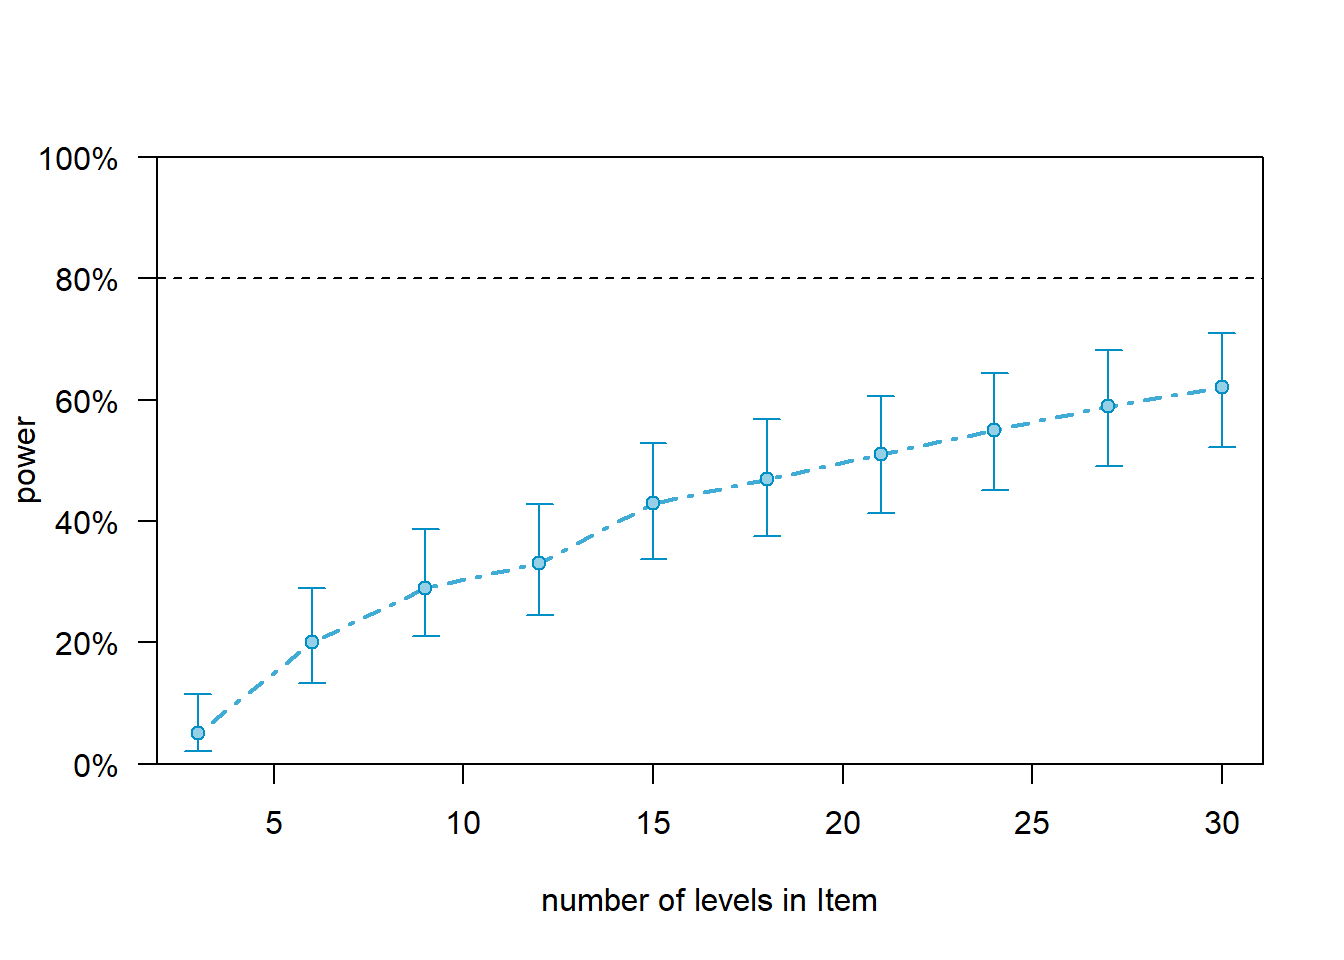
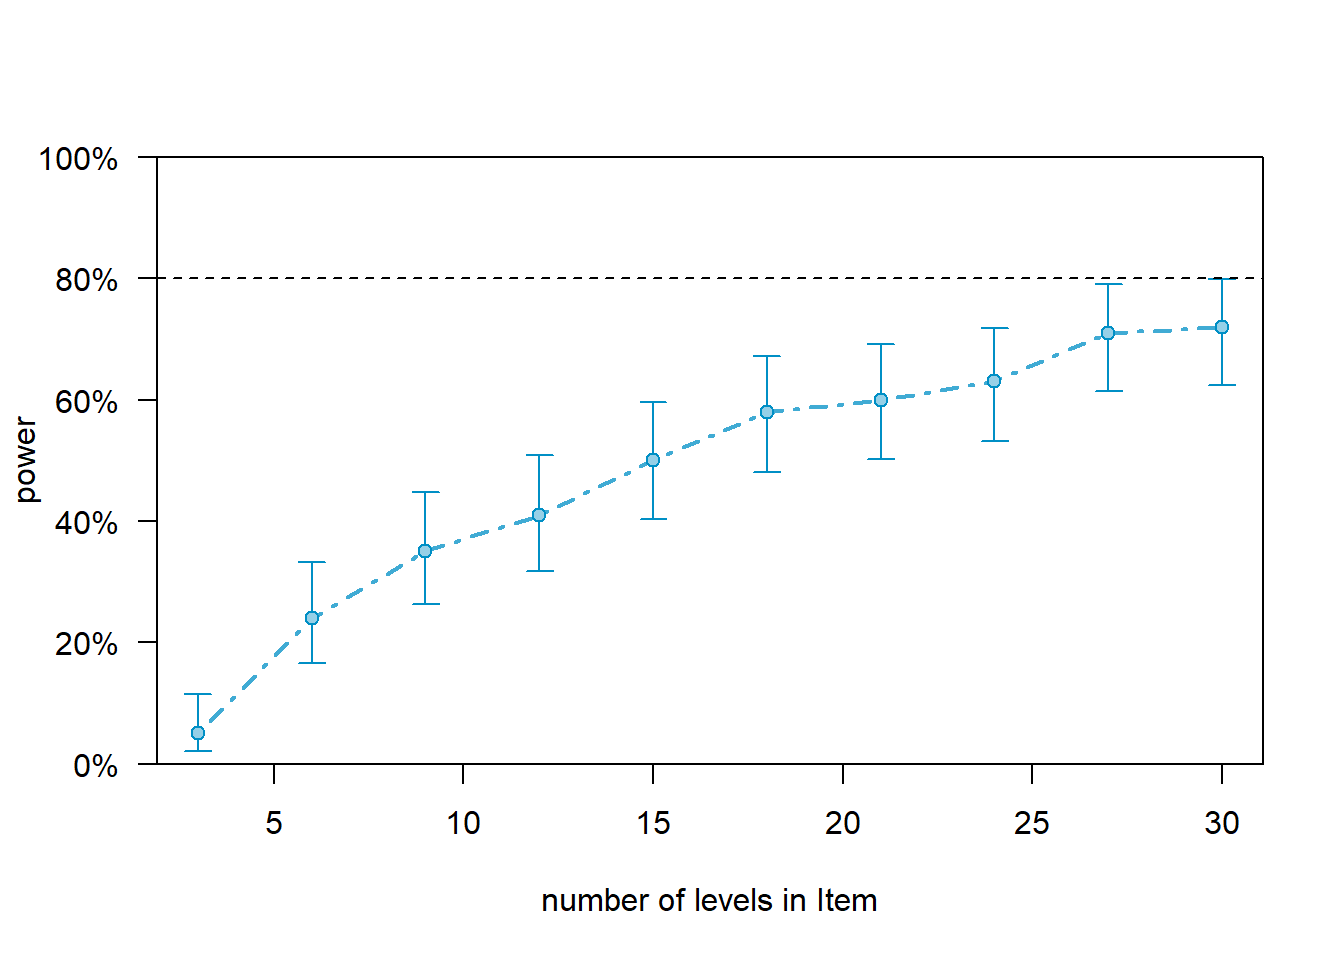
pwr update

diff --git a/pwr.html b/pwr.html
@@ -627,8 +627,8 @@ simdat &lt;- data.frame(
   dplyr::mutate_if(is.character, factor) %&gt;%
   dplyr::rename(AOI = 4)</code></pre>
 <p>The data looks like this.</p>
-<div id="htmlwidget-53c9c624b5613a192ece" style="width:100%;height:auto;" class="datatables html-widget"></div>
-<script type="application/json" data-for="htmlwidget-53c9c624b5613a192ece">{"x":{"filter":"none","caption":"<caption>Overview of the data set.<\/caption>","data":[["Sub1","Sub1","Sub1","Sub1","Sub1","Sub1","Sub1","Sub1","Sub1","Sub1","Sub2","Sub2","Sub2","Sub2","Sub2","Sub2","Sub2","Sub2","Sub2","Sub2","Sub3","Sub3","Sub3","Sub3","Sub3","Sub3","Sub3","Sub3","Sub3","Sub3","Sub4","Sub4","Sub4","Sub4","Sub4","Sub4","Sub4","Sub4","Sub4","Sub4","Sub5","Sub5","Sub5","Sub5","Sub5","Sub5","Sub5","Sub5","Sub5","Sub5","Sub6","Sub6","Sub6","Sub6","Sub6","Sub6","Sub6","Sub6","Sub6","Sub6","Sub7","Sub7","Sub7","Sub7","Sub7","Sub7","Sub7","Sub7","Sub7","Sub7","Sub8","Sub8","Sub8","Sub8","Sub8","Sub8","Sub8","Sub8","Sub8","Sub8","Sub9","Sub9","Sub9","Sub9","Sub9","Sub9","Sub9","Sub9","Sub9","Sub9","Sub10","Sub10","Sub10","Sub10","Sub10","Sub10","Sub10","Sub10","Sub10","Sub10","Sub1","Sub1","Sub1","Sub1","Sub1","Sub1","Sub1","Sub1","Sub1","Sub1","Sub2","Sub2","Sub2","Sub2","Sub2","Sub2","Sub2","Sub2","Sub2","Sub2","Sub3","Sub3","Sub3","Sub3","Sub3","Sub3","Sub3","Sub3","Sub3","Sub3","Sub4","Sub4","Sub4","Sub4","Sub4","Sub4","Sub4","Sub4","Sub4","Sub4","Sub5","Sub5","Sub5","Sub5","Sub5","Sub5","Sub5","Sub5","Sub5","Sub5","Sub6","Sub6","Sub6","Sub6","Sub6","Sub6","Sub6","Sub6","Sub6","Sub6","Sub7","Sub7","Sub7","Sub7","Sub7","Sub7","Sub7","Sub7","Sub7","Sub7","Sub8","Sub8","Sub8","Sub8","Sub8","Sub8","Sub8","Sub8","Sub8","Sub8","Sub9","Sub9","Sub9","Sub9","Sub9","Sub9","Sub9","Sub9","Sub9","Sub9","Sub10","Sub10","Sub10","Sub10","Sub10","Sub10","Sub10","Sub10","Sub10","Sub10"],["Control","Control","Control","Control","Control","Control","Control","Control","Control","Control","Control","Control","Control","Control","Control","Control","Control","Control","Control","Control","Control","Control","Control","Control","Control","Control","Control","Control","Control","Control","Control","Control","Control","Control","Control","Control","Control","Control","Control","Control","Control","Control","Control","Control","Control","Control","Control","Control","Control","Control","Control","Control","Control","Control","Control","Control","Control","Control","Control","Control","Control","Control","Control","Control","Control","Control","Control","Control","Control","Control","Control","Control","Control","Control","Control","Control","Control","Control","Control","Control","Control","Control","Control","Control","Control","Control","Control","Control","Control","Control","Control","Control","Control","Control","Control","Control","Control","Control","Control","Control","Test","Test","Test","Test","Test","Test","Test","Test","Test","Test","Test","Test","Test","Test","Test","Test","Test","Test","Test","Test","Test","Test","Test","Test","Test","Test","Test","Test","Test","Test","Test","Test","Test","Test","Test","Test","Test","Test","Test","Test","Test","Test","Test","Test","Test","Test","Test","Test","Test","Test","Test","Test","Test","Test","Test","Test","Test","Test","Test","Test","Test","Test","Test","Test","Test","Test","Test","Test","Test","Test","Test","Test","Test","Test","Test","Test","Test","Test","Test","Test","Test","Test","Test","Test","Test","Test","Test","Test","Test","Test","Test","Test","Test","Test","Test","Test","Test","Test","Test","Test"],["1","2","3","4","5","6","7","8","9","10","1","2","3","4","5","6","7","8","9","10","1","2","3","4","5","6","7","8","9","10","1","2","3","4","5","6","7","8","9","10","1","2","3","4","5","6","7","8","9","10","1","2","3","4","5","6","7","8","9","10","1","2","3","4","5","6","7","8","9","10","1","2","3","4","5","6","7","8","9","10","1","2","3","4","5","6","7","8","9","10","1","2","3","4","5","6","7","8","9","10","1","2","3","4","5","6","7","8","9","10","1","2","3","4","5","6","7","8","9","10","1","2","3","4","5","6","7","8","9","10","1","2","3","4","5","6","7","8","9","10","1","2","3","4","5","6","7","8","9","10","1","2","3","4","5","6","7","8","9","10","1","2","3","4","5","6","7","8","9","10","1","2","3","4","5","6","7","8","9","10","1","2","3","4","5","6","7","8","9","10","1","2","3","4","5","6","7","8","9","10"],["NotAOI","NotAOI","NotAOI","NotAOI","NotAOI","NotAOI","AOI","NotAOI","NotAOI","AOI","NotAOI","NotAOI","NotAOI","NotAOI","NotAOI","NotAOI","NotAOI","NotAOI","NotAOI","NotAOI","NotAOI","NotAOI","AOI","NotAOI","NotAOI","NotAOI","NotAOI","NotAOI","NotAOI","NotAOI","AOI","NotAOI","NotAOI","NotAOI","NotAOI","AOI","NotAOI","NotAOI","NotAOI","NotAOI","NotAOI","AOI","NotAOI","NotAOI","NotAOI","NotAOI","NotAOI","NotAOI","NotAOI","AOI","NotAOI","NotAOI","NotAOI","NotAOI","NotAOI","NotAOI","NotAOI","NotAOI","NotAOI","NotAOI","NotAOI","AOI","AOI","NotAOI","NotAOI","NotAOI","AOI","AOI","AOI","NotAOI","NotAOI","NotAOI","NotAOI","NotAOI","NotAOI","NotAOI","AOI","NotAOI","NotAOI","NotAOI","NotAOI","NotAOI","AOI","NotAOI","NotAOI","NotAOI","NotAOI","NotAOI","AOI","NotAOI","NotAOI","NotAOI","AOI","AOI","AOI","NotAOI","NotAOI","NotAOI","NotAOI","AOI","NotAOI","NotAOI","NotAOI","AOI","NotAOI","NotAOI","AOI","NotAOI","NotAOI","NotAOI","AOI","NotAOI","NotAOI","NotAOI","NotAOI","AOI","NotAOI","NotAOI","NotAOI","AOI","AOI","NotAOI","NotAOI","NotAOI","NotAOI","NotAOI","AOI","AOI","NotAOI","NotAOI","AOI","NotAOI","NotAOI","NotAOI","AOI","NotAOI","NotAOI","NotAOI","AOI","NotAOI","NotAOI","AOI","AOI","NotAOI","NotAOI","AOI","NotAOI","AOI","NotAOI","NotAOI","NotAOI","NotAOI","AOI","AOI","NotAOI","NotAOI","NotAOI","NotAOI","AOI","NotAOI","NotAOI","NotAOI","NotAOI","AOI","NotAOI","NotAOI","AOI","NotAOI","NotAOI","NotAOI","NotAOI","NotAOI","AOI","NotAOI","NotAOI","NotAOI","NotAOI","AOI","NotAOI","AOI","NotAOI","AOI","AOI","NotAOI","NotAOI","AOI","AOI","NotAOI","AOI","NotAOI","NotAOI","NotAOI","AOI","NotAOI","AOI","NotAOI","NotAOI","NotAOI","AOI","NotAOI"]],"container":"<table class=\"display\">\n  <thead>\n    <tr>\n      <th>Subject<\/th>\n      <th>Condition<\/th>\n      <th>Item<\/th>\n      <th>AOI<\/th>\n    <\/tr>\n  <\/thead>\n<\/table>","options":{"pageLength":10,"scrollX":true,"order":[],"autoWidth":false,"orderClasses":false}},"evals":[],"jsHooks":[]}</script>
+<div id="htmlwidget-93379acb416f42316649" style="width:100%;height:auto;" class="datatables html-widget"></div>
+<script type="application/json" data-for="htmlwidget-93379acb416f42316649">{"x":{"filter":"none","caption":"<caption>Overview of the data set.<\/caption>","data":[["Sub1","Sub1","Sub1","Sub1","Sub1","Sub1","Sub1","Sub1","Sub1","Sub1","Sub2","Sub2","Sub2","Sub2","Sub2","Sub2","Sub2","Sub2","Sub2","Sub2","Sub3","Sub3","Sub3","Sub3","Sub3","Sub3","Sub3","Sub3","Sub3","Sub3","Sub4","Sub4","Sub4","Sub4","Sub4","Sub4","Sub4","Sub4","Sub4","Sub4","Sub5","Sub5","Sub5","Sub5","Sub5","Sub5","Sub5","Sub5","Sub5","Sub5","Sub6","Sub6","Sub6","Sub6","Sub6","Sub6","Sub6","Sub6","Sub6","Sub6","Sub7","Sub7","Sub7","Sub7","Sub7","Sub7","Sub7","Sub7","Sub7","Sub7","Sub8","Sub8","Sub8","Sub8","Sub8","Sub8","Sub8","Sub8","Sub8","Sub8","Sub9","Sub9","Sub9","Sub9","Sub9","Sub9","Sub9","Sub9","Sub9","Sub9","Sub10","Sub10","Sub10","Sub10","Sub10","Sub10","Sub10","Sub10","Sub10","Sub10","Sub1","Sub1","Sub1","Sub1","Sub1","Sub1","Sub1","Sub1","Sub1","Sub1","Sub2","Sub2","Sub2","Sub2","Sub2","Sub2","Sub2","Sub2","Sub2","Sub2","Sub3","Sub3","Sub3","Sub3","Sub3","Sub3","Sub3","Sub3","Sub3","Sub3","Sub4","Sub4","Sub4","Sub4","Sub4","Sub4","Sub4","Sub4","Sub4","Sub4","Sub5","Sub5","Sub5","Sub5","Sub5","Sub5","Sub5","Sub5","Sub5","Sub5","Sub6","Sub6","Sub6","Sub6","Sub6","Sub6","Sub6","Sub6","Sub6","Sub6","Sub7","Sub7","Sub7","Sub7","Sub7","Sub7","Sub7","Sub7","Sub7","Sub7","Sub8","Sub8","Sub8","Sub8","Sub8","Sub8","Sub8","Sub8","Sub8","Sub8","Sub9","Sub9","Sub9","Sub9","Sub9","Sub9","Sub9","Sub9","Sub9","Sub9","Sub10","Sub10","Sub10","Sub10","Sub10","Sub10","Sub10","Sub10","Sub10","Sub10"],["Control","Control","Control","Control","Control","Control","Control","Control","Control","Control","Control","Control","Control","Control","Control","Control","Control","Control","Control","Control","Control","Control","Control","Control","Control","Control","Control","Control","Control","Control","Control","Control","Control","Control","Control","Control","Control","Control","Control","Control","Control","Control","Control","Control","Control","Control","Control","Control","Control","Control","Control","Control","Control","Control","Control","Control","Control","Control","Control","Control","Control","Control","Control","Control","Control","Control","Control","Control","Control","Control","Control","Control","Control","Control","Control","Control","Control","Control","Control","Control","Control","Control","Control","Control","Control","Control","Control","Control","Control","Control","Control","Control","Control","Control","Control","Control","Control","Control","Control","Control","Test","Test","Test","Test","Test","Test","Test","Test","Test","Test","Test","Test","Test","Test","Test","Test","Test","Test","Test","Test","Test","Test","Test","Test","Test","Test","Test","Test","Test","Test","Test","Test","Test","Test","Test","Test","Test","Test","Test","Test","Test","Test","Test","Test","Test","Test","Test","Test","Test","Test","Test","Test","Test","Test","Test","Test","Test","Test","Test","Test","Test","Test","Test","Test","Test","Test","Test","Test","Test","Test","Test","Test","Test","Test","Test","Test","Test","Test","Test","Test","Test","Test","Test","Test","Test","Test","Test","Test","Test","Test","Test","Test","Test","Test","Test","Test","Test","Test","Test","Test"],["1","2","3","4","5","6","7","8","9","10","1","2","3","4","5","6","7","8","9","10","1","2","3","4","5","6","7","8","9","10","1","2","3","4","5","6","7","8","9","10","1","2","3","4","5","6","7","8","9","10","1","2","3","4","5","6","7","8","9","10","1","2","3","4","5","6","7","8","9","10","1","2","3","4","5","6","7","8","9","10","1","2","3","4","5","6","7","8","9","10","1","2","3","4","5","6","7","8","9","10","1","2","3","4","5","6","7","8","9","10","1","2","3","4","5","6","7","8","9","10","1","2","3","4","5","6","7","8","9","10","1","2","3","4","5","6","7","8","9","10","1","2","3","4","5","6","7","8","9","10","1","2","3","4","5","6","7","8","9","10","1","2","3","4","5","6","7","8","9","10","1","2","3","4","5","6","7","8","9","10","1","2","3","4","5","6","7","8","9","10","1","2","3","4","5","6","7","8","9","10"],["NotAOI","NotAOI","NotAOI","AOI","NotAOI","NotAOI","NotAOI","NotAOI","AOI","NotAOI","NotAOI","NotAOI","NotAOI","NotAOI","NotAOI","AOI","NotAOI","NotAOI","NotAOI","NotAOI","NotAOI","NotAOI","NotAOI","AOI","AOI","NotAOI","AOI","AOI","AOI","NotAOI","NotAOI","AOI","AOI","AOI","NotAOI","AOI","NotAOI","NotAOI","NotAOI","AOI","NotAOI","NotAOI","NotAOI","AOI","NotAOI","NotAOI","NotAOI","NotAOI","NotAOI","NotAOI","NotAOI","NotAOI","NotAOI","AOI","NotAOI","AOI","NotAOI","AOI","NotAOI","NotAOI","NotAOI","NotAOI","AOI","NotAOI","NotAOI","NotAOI","NotAOI","NotAOI","NotAOI","NotAOI","NotAOI","NotAOI","NotAOI","NotAOI","NotAOI","NotAOI","NotAOI","NotAOI","NotAOI","NotAOI","NotAOI","NotAOI","AOI","NotAOI","AOI","AOI","AOI","NotAOI","AOI","NotAOI","NotAOI","NotAOI","NotAOI","NotAOI","NotAOI","NotAOI","NotAOI","AOI","NotAOI","AOI","AOI","AOI","NotAOI","AOI","NotAOI","NotAOI","NotAOI","AOI","NotAOI","AOI","NotAOI","NotAOI","AOI","NotAOI","NotAOI","NotAOI","AOI","AOI","AOI","AOI","NotAOI","NotAOI","AOI","NotAOI","NotAOI","NotAOI","NotAOI","NotAOI","NotAOI","NotAOI","AOI","NotAOI","AOI","NotAOI","AOI","NotAOI","NotAOI","NotAOI","AOI","NotAOI","AOI","AOI","NotAOI","NotAOI","AOI","NotAOI","AOI","NotAOI","NotAOI","NotAOI","NotAOI","NotAOI","AOI","AOI","NotAOI","AOI","AOI","AOI","NotAOI","NotAOI","NotAOI","NotAOI","AOI","NotAOI","NotAOI","NotAOI","AOI","NotAOI","AOI","NotAOI","NotAOI","NotAOI","NotAOI","NotAOI","NotAOI","NotAOI","NotAOI","NotAOI","NotAOI","NotAOI","AOI","AOI","NotAOI","AOI","AOI","AOI","AOI","NotAOI","AOI","NotAOI","NotAOI","NotAOI","AOI","AOI","NotAOI","NotAOI","NotAOI","NotAOI","NotAOI","AOI"]],"container":"<table class=\"display\">\n  <thead>\n    <tr>\n      <th>Subject<\/th>\n      <th>Condition<\/th>\n      <th>Item<\/th>\n      <th>AOI<\/th>\n    <\/tr>\n  <\/thead>\n<\/table>","options":{"pageLength":10,"scrollX":true,"order":[],"autoWidth":false,"orderClasses":false}},"evals":[],"jsHooks":[]}</script>
 </div>
 </div>
 <div id="post-hoc-power-analysis" class="section level1">
@@ -653,28 +653,28 @@ summary(m1)</code></pre>
 ##    Data: simdat
 ## 
 ##      AIC      BIC   logLik deviance df.resid 
-##    229.1    242.3   -110.5    221.1      196 
+##    247.8    261.0   -119.9    239.8      196 
 ## 
 ## Scaled residuals: 
-##      Min       1Q   Median       3Q      Max 
-## -2.06474 -0.00974  0.48432  0.67028  0.67028 
+##     Min      1Q  Median      3Q     Max 
+## -2.0966 -1.1534  0.5155  0.6980  1.1336 
 ## 
 ## Random effects:
 ##  Groups  Name        Variance  Std.Dev. 
-##  Subject (Intercept) 9.989e-15 9.995e-08
-##  Item    (Intercept) 8.228e-15 9.071e-08
+##  Subject (Intercept) 3.685e-01 6.071e-01
+##  Item    (Intercept) 3.984e-10 1.996e-05
 ## Number of obs: 200, groups:  Subject, 10; Item, 10
 ## 
 ## Fixed effects:
 ##               Estimate Std. Error z value Pr(&gt;|z|)    
-## (Intercept)     1.4500     0.2549   5.688 1.28e-08 ***
-## ConditionTest  -0.6499     0.3343  -1.944   0.0519 .  
+## (Intercept)     1.1870     0.3112   3.814 0.000137 ***
+## ConditionTest  -0.6064     0.3208  -1.890 0.058704 .  
 ## ---
 ## Signif. codes:  0 &#39;***&#39; 0.001 &#39;**&#39; 0.01 &#39;*&#39; 0.05 &#39;.&#39; 0.1 &#39; &#39; 1
 ## 
 ## Correlation of Fixed Effects:
 ##             (Intr)
-## ConditinTst -0.763
+## ConditinTst -0.579
 ## optimizer (Nelder_Mead) convergence code: 0 (OK)
 ## boundary (singular) fit: see ?isSingular</code></pre>
 <p>We now check the effect sizes of the predictors in the model. We can do this by displaying the results of the model using the <code>tab_model</code> function from the <code>sjPlot</code> package.</p>
@@ -710,10 +710,10 @@ p
 (Intercept)
 </td>
 <td style=" padding:0.2cm; text-align:left; vertical-align:top; text-align:center;  ">
-4.26
+3.28
 </td>
 <td style=" padding:0.2cm; text-align:left; vertical-align:top; text-align:center;  ">
-2.59 – 7.03
+1.78 – 6.03
 </td>
 <td style=" padding:0.2cm; text-align:left; vertical-align:top; text-align:center;  ">
 <strong>&lt;0.001
@@ -724,13 +724,13 @@ p
 Condition [Test]
 </td>
 <td style=" padding:0.2cm; text-align:left; vertical-align:top; text-align:center;  ">
-0.52
+0.55
 </td>
 <td style=" padding:0.2cm; text-align:left; vertical-align:top; text-align:center;  ">
-0.27 – 1.01
+0.29 – 1.02
 </td>
 <td style=" padding:0.2cm; text-align:left; vertical-align:top; text-align:center;  ">
-0.052
+0.059
 </td>
 </tr>
 <tr>
@@ -750,7 +750,7 @@ Random Effects
 τ<sub>00</sub> <sub>Subject</sub>
 </td>
 <td style=" padding:0.2cm; text-align:left; vertical-align:top; padding-top:0.1cm; padding-bottom:0.1cm; text-align:left;" colspan="3">
-0.00
+0.37
 </td>
 <tr>
 <td style=" padding:0.2cm; text-align:left; vertical-align:top; text-align:left; padding-top:0.1cm; padding-bottom:0.1cm;">
@@ -758,6 +758,13 @@ Random Effects
 </td>
 <td style=" padding:0.2cm; text-align:left; vertical-align:top; padding-top:0.1cm; padding-bottom:0.1cm; text-align:left;" colspan="3">
 0.00
+</td>
+<tr>
+<td style=" padding:0.2cm; text-align:left; vertical-align:top; text-align:left; padding-top:0.1cm; padding-bottom:0.1cm;">
+ICC
+</td>
+<td style=" padding:0.2cm; text-align:left; vertical-align:top; padding-top:0.1cm; padding-bottom:0.1cm; text-align:left;" colspan="3">
+0.10
 </td>
 <tr>
 <td style=" padding:0.2cm; text-align:left; vertical-align:top; text-align:left; padding-top:0.1cm; padding-bottom:0.1cm;">
@@ -786,7 +793,7 @@ Observations
 Marginal R<sup>2</sup> / Conditional R<sup>2</sup>
 </td>
 <td style=" padding:0.2cm; text-align:left; vertical-align:top; padding-top:0.1cm; padding-bottom:0.1cm; text-align:left;" colspan="3">
-0.031 / NA
+0.025 / 0.123
 </td>
 </tr>
 </table>
@@ -804,18 +811,18 @@ rsim0 &lt;- powerSim(m1, fixed(&quot;ConditionTest&quot;, &quot;z&quot;), nsim=1
 <pre class="r"><code># inspect results
 rsim0</code></pre>
 <pre><code>## Power for predictor &#39;ConditionTest&#39;, (95% confidence interval):
-##       53.00% (42.76, 63.06)
+##       51.00% (40.80, 61.14)
 ## 
 ## Test: z-test
-##       Effect size for ConditionTest is -0.65
+##       Effect size for ConditionTest is -0.61
 ## 
 ## Based on 100 simulations, (1 warning, 0 errors)
 ## alpha = 0.05, nrow = 200
 ## 
-## Time elapsed: 0 h 0 m 17 s
+## Time elapsed: 0 h 0 m 18 s
 ## 
 ## nb: result might be an observed power calculation</code></pre>
-<p>The results of the power analysis show that, given the data at hand, the model would have detected the effect of Conidition:Test with a probability of 53 percent. However, and as stated above, the results of such post-hoc power calculations (where the target effect size comes from the data) give misleading results (<span class="citation">Hoenig and Heisey (<a href="#ref-hoenig2001abuse" role="doc-biblioref">2001</a>)</span>) and should thus be treated with extreme care!</p>
+<p>The results of the power analysis show that, given the data at hand, the model would have detected the effect of Conidition:Test with a probability of 51 percent. However, and as stated above, the results of such post-hoc power calculations (where the target effect size comes from the data) give misleading results (<span class="citation">Hoenig and Heisey (<a href="#ref-hoenig2001abuse" role="doc-biblioref">2001</a>)</span>) and should thus be treated with extreme care!</p>
 </div>
 <div id="power-analysis-of-set-effects" class="section level1">
 <h1><span class="header-section-number">2</span> Power Analysis of Set Effects</h1>
@@ -829,7 +836,7 @@ rsim0</code></pre>
 <pre class="r"><code>estimatesfixedeffects &lt;- fixef(m1)
 exp(estimatesfixedeffects)</code></pre>
 <pre><code>##   (Intercept) ConditionTest 
-##     4.2631579     0.5221027</code></pre>
+##     3.2772311     0.5453091</code></pre>
 <p>We can see that the effect is rather small which makes it very hard to detect an effect. We will now change the size of the effect of ConditionTest to represent a truly <em>small</em> effect, i.e. on the brink of being noise but being just strong enough to be considered small. In other words, we will set the effect so that its odds ratio is exactly 1.68.</p>
 <pre class="r"><code># set seed for replicability
 set.seed(12345)
@@ -838,7 +845,7 @@ fixef(m1)[&quot;ConditionTest&quot;] &lt;- 0.519
 estimatesfixedeffects &lt;- fixef(m1)
 exp(estimatesfixedeffects)</code></pre>
 <pre><code>##   (Intercept) ConditionTest 
-##      4.263158      1.680346</code></pre>
+##      3.277231      1.680346</code></pre>
 <p>Now we can test if the sample size of the model is sufficient to find a small effect.</p>
 <pre class="r"><code># set seed for replicability
 set.seed(12345)
@@ -853,14 +860,14 @@ rsim1</code></pre>
 ## Test: z-test
 ##       Effect size for ConditionTest is 0.52
 ## 
-## Based on 100 simulations, (3 warnings, 0 errors)
+## Based on 100 simulations, (1 warning, 0 errors)
 ## alpha = 0.05, nrow = 200
 ## 
-## Time elapsed: 0 h 0 m 17 s</code></pre>
+## Time elapsed: 0 h 0 m 18 s</code></pre>
 <p>The power analysis shows that the data is sufficient to detect a small effect for Condition:Test with 26 percent accuracy.</p>
 </div>
-<div id="power-analysis-of-extending-data" class="section level1">
-<h1><span class="header-section-number">3</span> Power Analysis of Extending Data</h1>
+<div id="power-analysis-of-extended-data" class="section level1">
+<h1><span class="header-section-number">3</span> Power Analysis of Extended Data</h1>
 <p>We will now extend the data to see what sample size is needed to get to the 80 percent accuracy threshold. We begin by increasing the number of items from 10 to 30 to see if this would lead to a sufficient sample size.</p>
 <pre class="r"><code># increase sample size
 m2 &lt;- extend(m1, along=&quot;Item&quot;, n=30)
@@ -870,16 +877,16 @@ rsim2 &lt;- powerSim(m2, fixed(&quot;ConditionTest&quot;, &quot;z&quot;), nsim=1
 <pre class="r"><code># show results
 rsim2</code></pre>
 <pre><code>## Power for predictor &#39;ConditionTest&#39;, (95% confidence interval):
-##       63.00% (52.76, 72.44)
+##       70.00% (60.02, 78.76)
 ## 
 ## Test: z-test
 ##       Effect size for ConditionTest is 0.52
 ## 
-## Based on 100 simulations, (1 warning, 0 errors)
+## Based on 100 simulations, (0 warnings, 0 errors)
 ## alpha = 0.05, nrow = 600
 ## 
-## Time elapsed: 0 h 0 m 26 s</code></pre>
-<p>By increasing the number of items to 30, we would now be able to detect a small effect (d=.2) with an accuracy of 63 percent. This means that we would have to add more items as 30 is not yet sufficient.</p>
+## Time elapsed: 0 h 0 m 30 s</code></pre>
+<p>By increasing the number of items to 30, we would now be able to detect a small effect (d=.2) with an accuracy of 70 percent. This means that we would have to add more items as 30 is not yet sufficient.</p>
 </div>
 <div id="power-analysis-for-ranges" class="section level1">
 <h1><span class="header-section-number">4</span> Power Analysis for Ranges</h1>
@@ -891,17 +898,17 @@ print(pc2)</code></pre>
 <pre><code>## Power for predictor &#39;ConditionTest&#39;, (95% confidence interval),
 ## by number of levels in Item:
 ##       3:  5.00% ( 1.64, 11.28) - 60 rows
-##       6: 20.00% (12.67, 29.18) - 120 rows
-##       9: 29.00% (20.36, 38.93) - 180 rows
-##      12: 33.00% (23.92, 43.12) - 240 rows
-##      15: 43.00% (33.14, 53.29) - 300 rows
-##      18: 47.00% (36.94, 57.24) - 360 rows
-##      21: 51.00% (40.80, 61.14) - 420 rows
-##      24: 55.00% (44.73, 64.97) - 480 rows
-##      27: 59.00% (48.71, 68.74) - 540 rows
-##      30: 62.00% (51.75, 71.52) - 600 rows
+##       6: 24.00% (16.02, 33.57) - 120 rows
+##       9: 35.00% (25.73, 45.18) - 180 rows
+##      12: 41.00% (31.26, 51.29) - 240 rows
+##      15: 50.00% (39.83, 60.17) - 300 rows
+##      18: 58.00% (47.71, 67.80) - 360 rows
+##      21: 60.00% (49.72, 69.67) - 420 rows
+##      24: 63.00% (52.76, 72.44) - 480 rows
+##      27: 71.00% (61.07, 79.64) - 540 rows
+##      30: 72.00% (62.13, 80.52) - 600 rows
 ## 
-## Time elapsed: 0 h 2 m 41 s</code></pre>
+## Time elapsed: 0 h 3 m 5 s</code></pre>
 <p>In addition, we can plot the results as follows:</p>
 <pre class="r"><code>plot(pc2)</code></pre>
 <p><img src="pwr_files/figure-html/pwr17-1.png" width="672" /></p>
@@ -914,18 +921,18 @@ pc3 &lt;- powerCurve(m3, fixed(&quot;ConditionTest&quot;, &quot;z&quot;), along=
 print(pc3)</code></pre>
 <pre><code>## Power for predictor &#39;ConditionTest&#39;, (95% confidence interval),
 ## by number of levels in Subject:
-##       3: 12.00% ( 6.36, 20.02) - 60 rows
-##       6: 27.00% (18.61, 36.80) - 120 rows
-##       9: 30.00% (21.24, 39.98) - 180 rows
+##       3: 18.00% (11.03, 26.95) - 60 rows
+##       6: 25.00% (16.88, 34.66) - 120 rows
+##       9: 27.00% (18.61, 36.80) - 180 rows
 ##      12: 36.00% (26.64, 46.21) - 240 rows
-##      15: 44.00% (34.08, 54.28) - 300 rows
-##      18: 51.00% (40.80, 61.14) - 360 rows
-##      21: 57.00% (46.71, 66.86) - 420 rows
-##      24: 65.00% (54.82, 74.27) - 480 rows
-##      27: 68.00% (57.92, 76.98) - 540 rows
-##      30: 71.00% (61.07, 79.64) - 600 rows
+##      15: 48.00% (37.90, 58.22) - 300 rows
+##      18: 53.00% (42.76, 63.06) - 360 rows
+##      21: 53.00% (42.76, 63.06) - 420 rows
+##      24: 63.00% (52.76, 72.44) - 480 rows
+##      27: 66.00% (55.85, 75.18) - 540 rows
+##      30: 72.00% (62.13, 80.52) - 600 rows
 ## 
-## Time elapsed: 0 h 2 m 40 s</code></pre>
+## Time elapsed: 0 h 2 m 52 s</code></pre>
 <p>Again, we can also visualize the results.</p>
 <pre class="r"><code># visualize results
 plot(pc3) </code></pre>
@@ -940,11 +947,11 @@ pc4 &lt;- powerCurve(m4, fixed(&quot;ConditionTest&quot;, &quot;z&quot;), within
 print(pc4)</code></pre>
 <pre><code>## Power for predictor &#39;ConditionTest&#39;, (95% confidence interval),
 ## by number of observations within Item+Subject:
-##       5: 57.00% (46.71, 66.86) - 500 rows
-##      10: 81.00% (71.93, 88.16) - 1000 rows
-##      15: 97.00% (91.48, 99.38) - 1500 rows
+##       5: 60.00% (49.72, 69.67) - 500 rows
+##      10: 89.00% (81.17, 94.38) - 1000 rows
+##      15: 99.00% (94.55, 99.97) - 1500 rows
 ## 
-## Time elapsed: 0 h 1 m 30 s</code></pre>
+## Time elapsed: 0 h 1 m 49 s</code></pre>
 <pre class="r"><code># show results
 plot(pc4)</code></pre>
 <p><img src="pwr_files/figure-html/pwr23-1.png" width="672" /></p>
